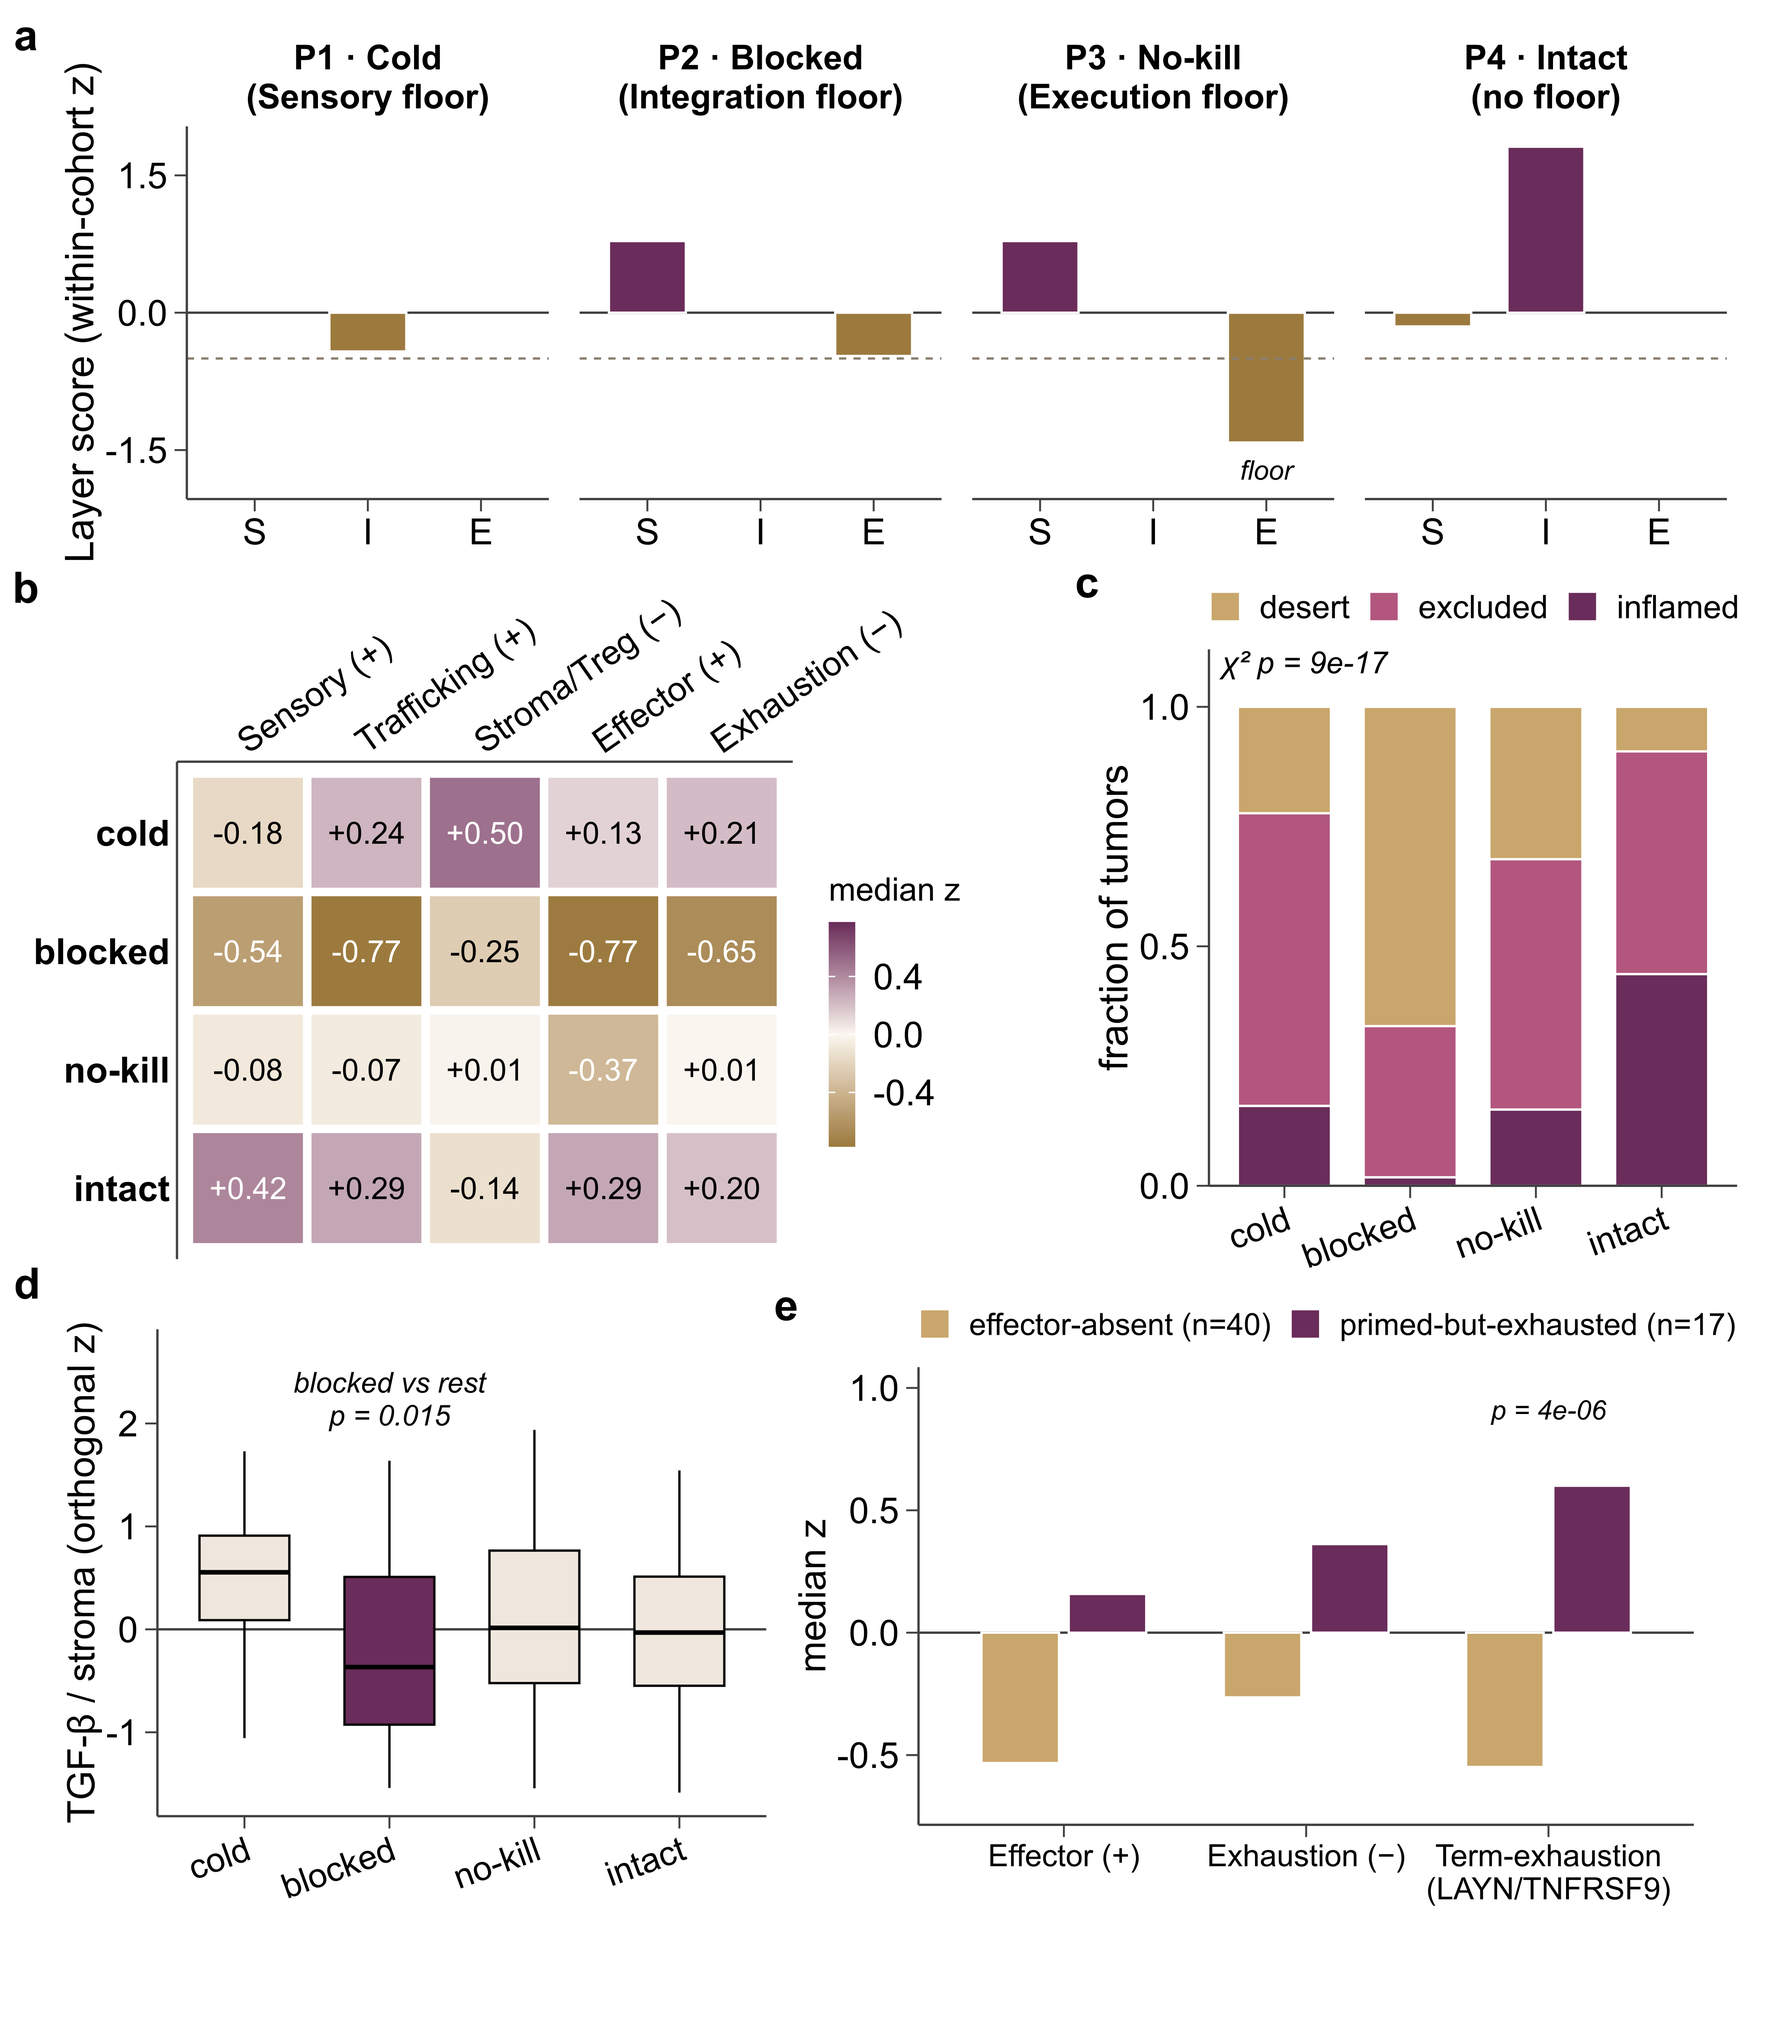
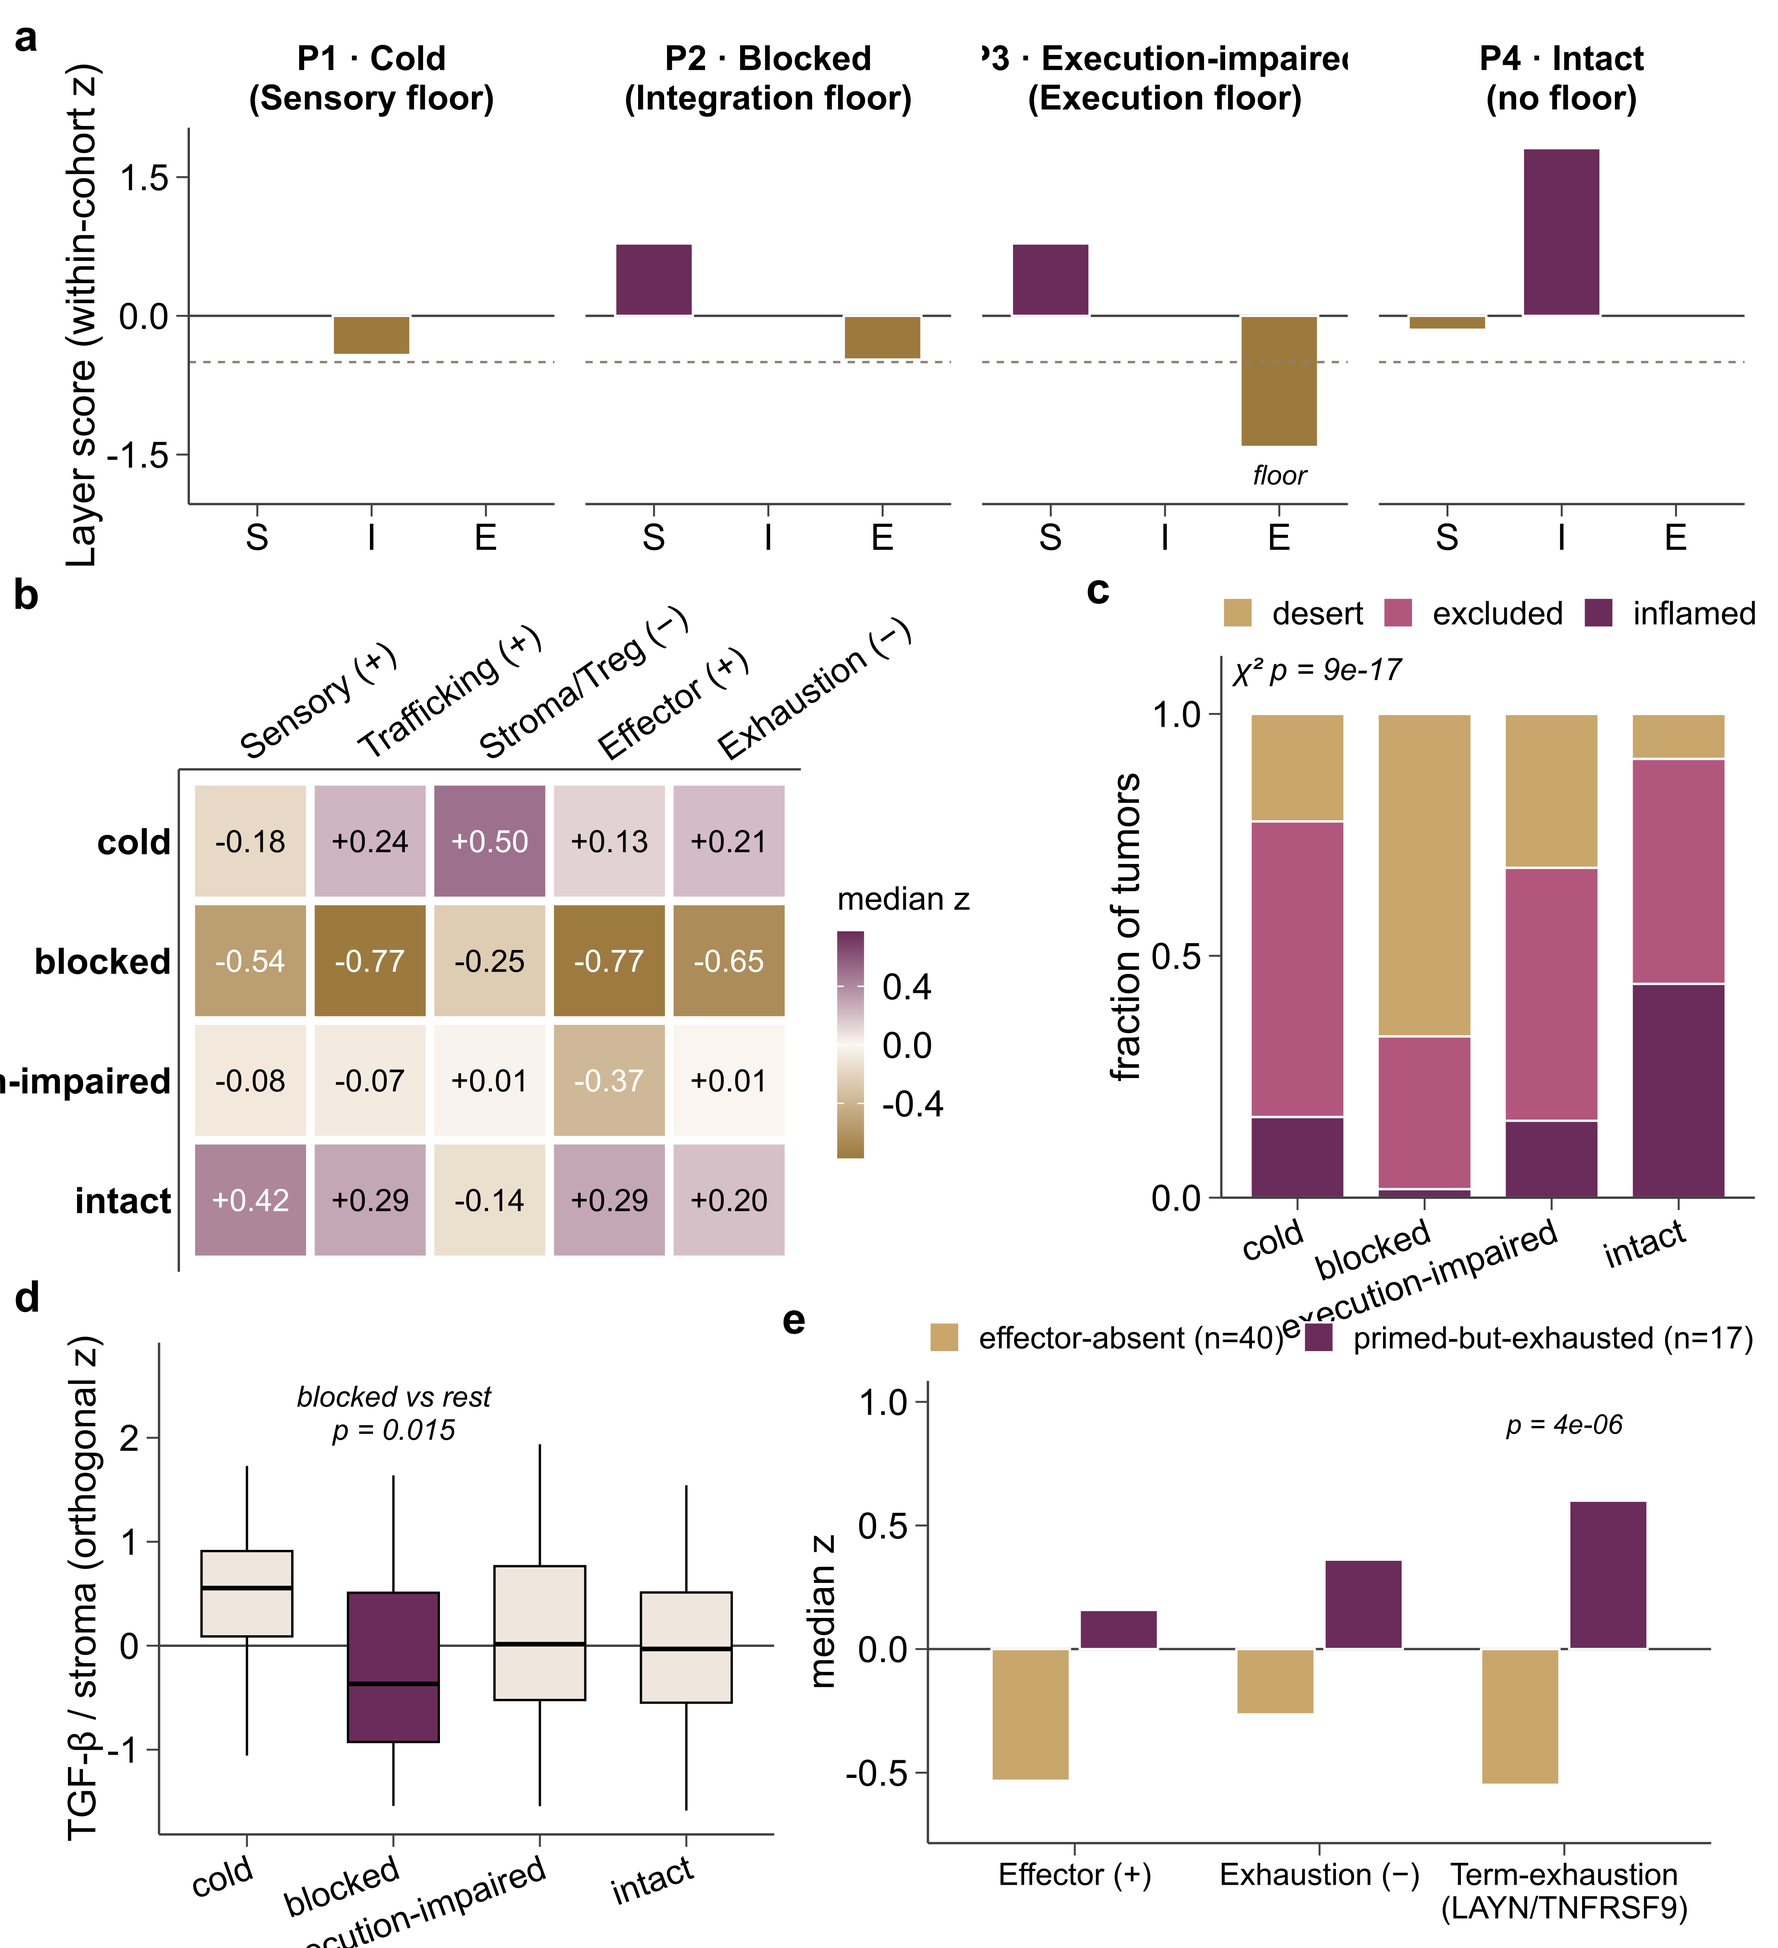
Rename the archetype no-kill -> Execution-impaired
Addresses reviewer comment C47: adopt Execution-impaired as the archetype
name across the app, figure scripts, the architecture schematic, the
hand-edited figure panels, and the archetype tables. Fig 3e now labels the
four archetypes directly (Intact / Execution-impaired / Blocked / Cold)
instead of the separate descriptive scheme.

diff --git a/app/README.md b/app/README.md
@@ -48,7 +48,7 @@ The overview figure at the top walks through it end to end:
 2. **Score:** each gene is self-normalized within the sample and compared to a **frozen 98-gene
    reference**, so a single patient is scored **cohort-independently**.
 3. **Cascade:** genes roll up into 5 sub-modules and 3 layers; each layer gets a standardized score
-   vs the reference, and the lowest layer names the archetype (**intact · cold · blocked · no-kill**).
+   vs the reference, and the lowest layer names the archetype (**intact · cold · blocked · Execution-impaired**).
 4. **Read-outs:** patient report, 98-gene cascade view, and cohort explorer, with PDF / CSV export.
 
 ## Features
